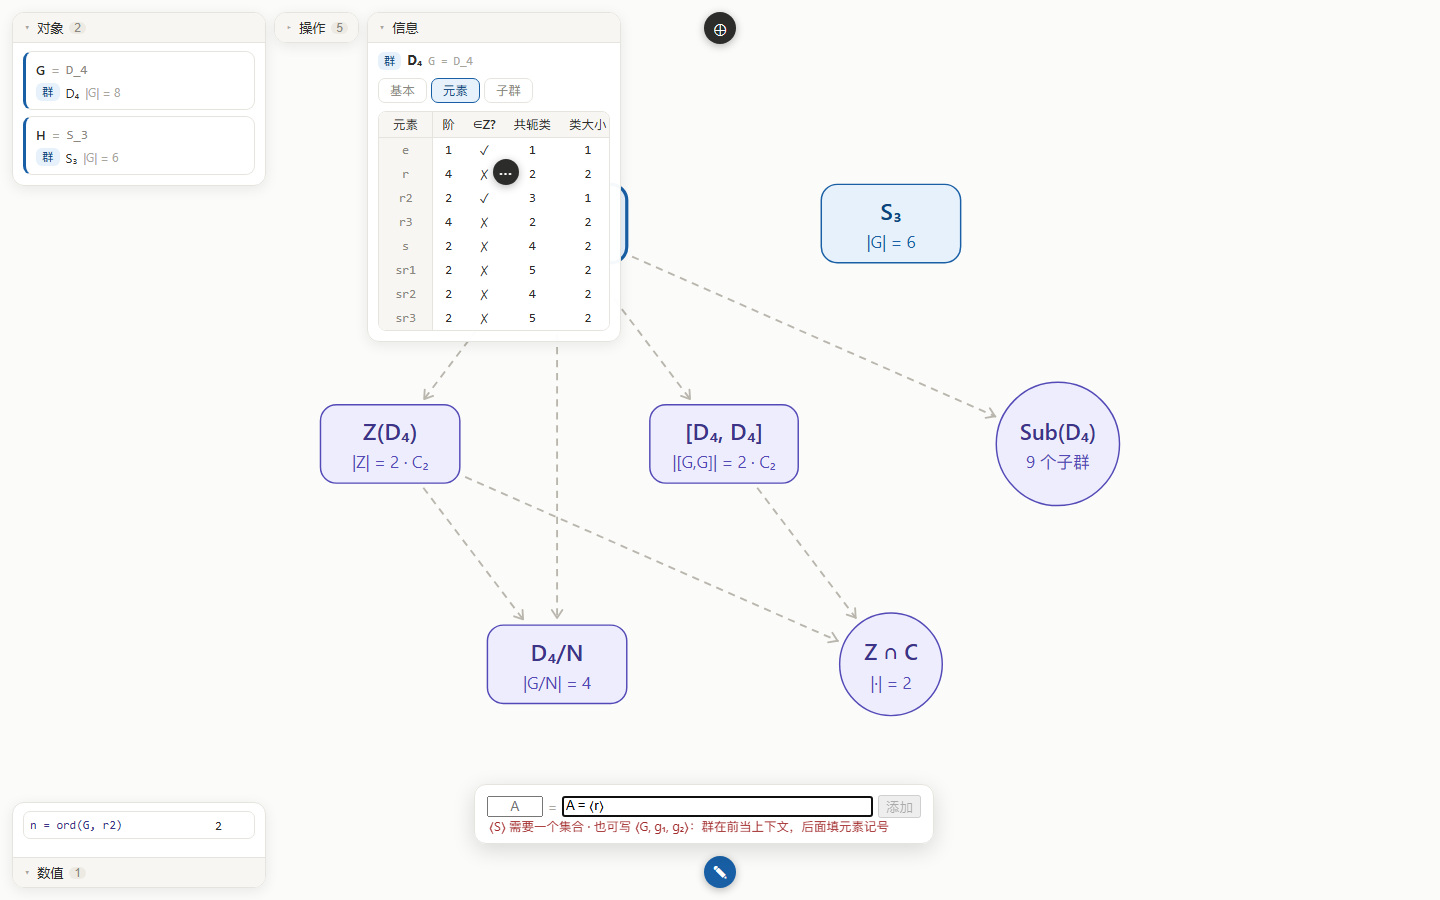
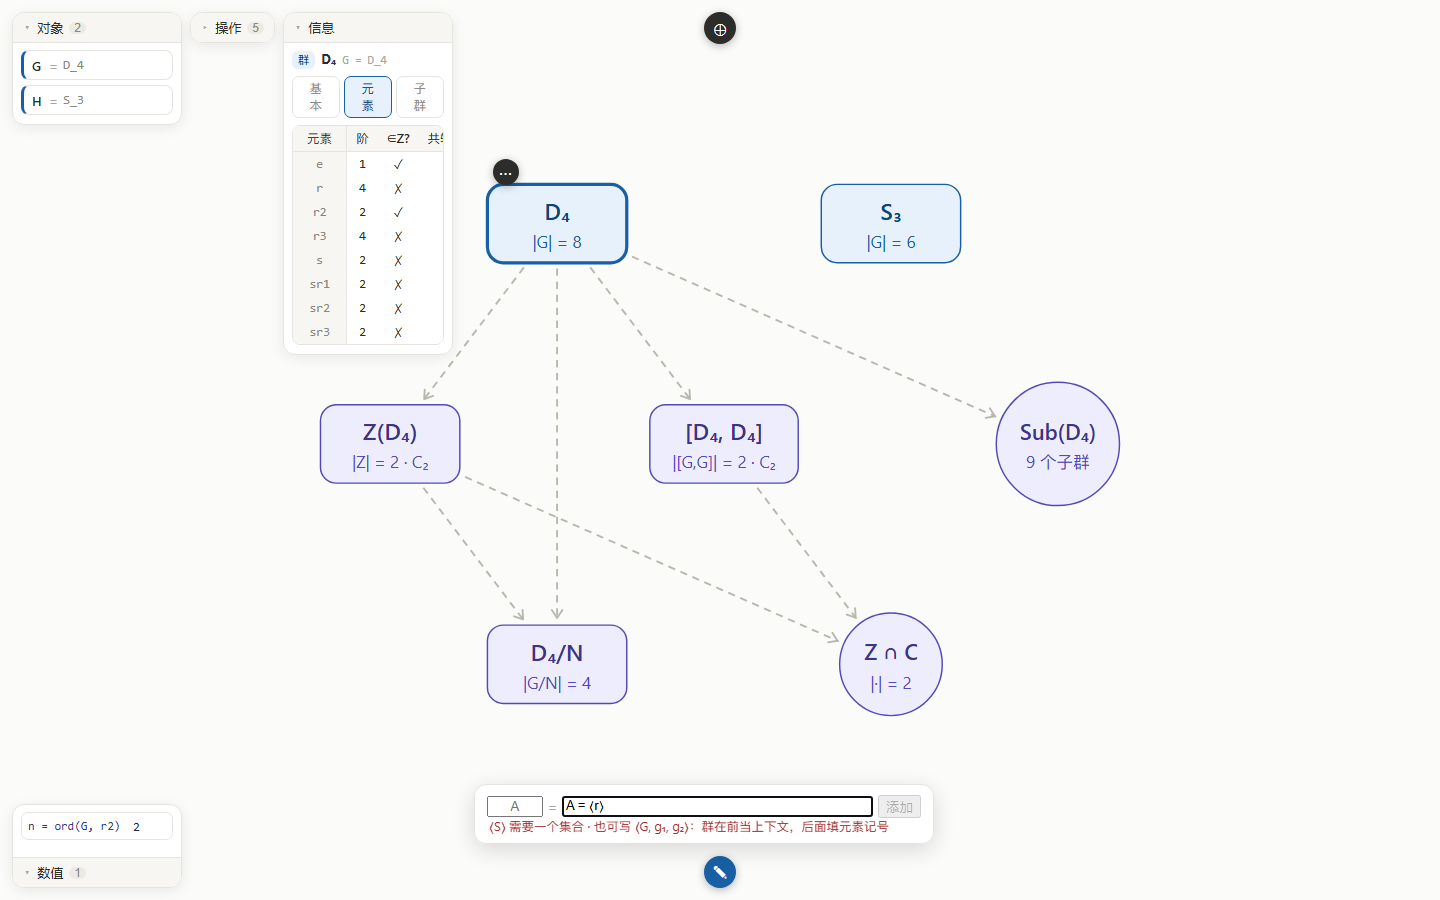
UI v3.1 二次收窄：对象行一行到底（A = D_4），详情全走信息面板
用户反馈"面板还是太宽"——对象栏一行 A = XXX 就够，其余信息去信息栏。

- ObjectRow 单行紧凑：去掉类型 chip / 标签 / 副行，只剩 名字 = 定义 + hover 删除；
  点对象行 = 选中该对象（画布高亮 + 对象球出现 + 信息面板自动打开）——
  群走基本/元素/子群三 tab，集合/作用/数值走信息面板的通用信息，通路现成
- 抽屉 252 → 168px（一行定义的宽度）：对象 / 操作 / 数值同宽；信息面板内容自适应
  （元素表格横滚、子群行换行）；错误行（BadRow）保留原样——错误提示无处可去
- InfoDock 的 info-def（名字 = 定义）与对象行呼应，选中后信息面板即完整档案

验证
- tsc --noEmit 零错误；U0 52 + U1 35 + U2 76 断言回归全绿
- playwright 走查 22/22（新增：对象行单行结构断言、点行选中后信息面板显示该对象）
- 修复走查环境问题：chromium 走系统代理导致 ERR_CONNECTION_REFUSED，
  launch 加 --no-proxy-server + env 清代理变量（环境 4 小时内变化即可复现）

文档：INTERACTION §5（168px / 点行选中）· ROADMAP U2.5 · README

Changed region(s): [[0.1875, 0.0311, 0.4375, 0.3733], [0.0, 0.0622, 0.0938, 0.1867], [0.0, 0.9022, 0.125, 0.9333]]

diff --git a/apps/web/src/ui/ObjectRow.tsx b/apps/web/src/ui/ObjectRow.tsx
@@ -1,36 +1,55 @@
-import { VALUE_TYPE_LABEL } from '../gal/value'
-import { TexOrText } from './Tex'
 import type { LineState } from '../gal/build'
 
-/** 一行对象（对象区 / 操作区共用）。 */
+/**
+ * 一行对象（对象区 / 操作区共用）——**单行紧凑**（UI v3.1 二次收窄）：
+ *
+ *     A = D_4                              ×
+ *
+ * 类型 / 标签 / 副行等信息**全部搬进「信息」面板**：点这一行 = 选中该对象
+ * （画布同步高亮、信息面板打开），信息在那边看。面板因此可以窄到一行定义的宽度。
+ */
 export function ObjectRow({
   state,
   onRemove,
+  onSelect,
 }: {
   state: LineState
   onRemove: (index: number) => void
+  /** 点行 = 选中对象（画布高亮 + 信息面板打开） */
+  onSelect?: (id: string) => void
 }) {
   const o = state.object!
   return (
-    <div className={`row row-${o.origin}`}>
-      <div className="row-top">
-        <span className="row-name">{o.id}</span>
-        <span className="row-eq">=</span>
-        <code className="row-def">{o.def}</code>
-        <button className="x" onClick={() => onRemove(state.index)} title="删除">
-          ×
-        </button>
-      </div>
-      <div className="row-sub">
-        <span className={`chip chip-${o.value.type}`}>{VALUE_TYPE_LABEL[o.value.type]}</span>
-        <TexOrText className="row-label" text={o.label} />
-        {o.sub && <span className="row-meta">{o.sub}</span>}
-      </div>
+    <div
+      className={`row row-${o.origin}${onSelect ? ' row-click' : ''}`}
+      onClick={
+        onSelect
+          ? (e) => {
+              e.stopPropagation()
+              onSelect(o.id)
+            }
+          : undefined
+      }
+      title={onSelect ? '选中，在信息面板查看详情' : undefined}
+    >
+      <span className="row-name">{o.id}</span>
+      <span className="row-eq">=</span>
+      <code className="row-def">{o.def}</code>
+      <button
+        className="x"
+        onClick={(e) => {
+          e.stopPropagation()
+          onRemove(state.index)
+        }}
+        title="删除"
+      >
+        ×
+      </button>
     </div>
   )
 }
 
-/** 问题行（求值失败的定义）。 */
+/** 问题行（求值失败的定义）。错误提示无处可去，就地显示。 */
 export function BadRow({
   state,
   onRemove,

diff --git a/apps/web/src/App.css b/apps/web/src/App.css
@@ -178,11 +178,11 @@ body {
 .dock-body {
   display: flex;
   flex-direction: column;
-  gap: 6px;
-  width: 252px;
+  gap: 5px;
+  width: 168px;
   max-height: min(62vh, 540px);
   overflow-y: auto;
-  padding: 8px 10px 10px;
+  padding: 7px 8px 9px;
 }
 
 .dock-subtitle {
@@ -207,14 +207,25 @@ body {
   font-size: 13px;
 }
 
-/* ── 对象行（对象区 / 操作区共用）────────────────────────── */
+/* ── 对象行（单行紧凑：A = def ×，v3.1 二次收窄）──────────── */
 
 .row {
   position: relative;
-  padding: 8px 10px;
+  display: flex;
+  align-items: center;
+  gap: 5px;
+  padding: 5px 8px;
   border: 1px solid var(--border);
-  border-radius: 9px;
+  border-radius: 8px;
   background: var(--surface);
+}
+
+.row-click {
+  cursor: pointer;
+}
+
+.row-click:hover {
+  border-color: var(--blue);
 }
 
 .row-input {
@@ -230,6 +241,7 @@ body {
 }
 
 .row-bad {
+  display: block;
   border-left: 3px solid var(--danger);
   background: var(--danger-fill);
 }
@@ -241,11 +253,14 @@ body {
 }
 
 .row-name {
+  flex: none;
+  min-width: 12px;
   font-weight: 500;
   color: var(--text);
 }
 
 .row-eq {
+  flex: none;
   color: var(--text-faint);
 }
 
@@ -255,27 +270,9 @@ body {
   overflow: hidden;
   color: var(--text-dim);
   font-family: var(--mono);
-  font-size: 13px;
+  font-size: 12.5px;
   text-overflow: ellipsis;
   white-space: nowrap;
-}
-
-.row-sub {
-  display: flex;
-  flex-wrap: wrap;
-  align-items: center;
-  gap: 6px;
-  margin-top: 5px;
-}
-
-.row-label {
-  font-size: 13px;
-  color: var(--text);
-}
-
-.row-meta {
-  font-size: 12px;
-  color: var(--text-faint);
 }
 
 .row-err {

diff --git a/apps/web/src/App.tsx b/apps/web/src/App.tsx
@@ -150,6 +150,14 @@ export default function App() {
     setOrbStage('closed')
   }, [])
 
+  /** 面板里点对象行 = 选中它：画布高亮 + 对象球出现 + 信息面板打开（信息都在那边看） */
+  const selectFromDock = useCallback((id: string) => {
+    setInter({ kind: 'selected', target: id })
+    setOrbStage('closed')
+    setOpenInfo(true)
+    setNotice(null)
+  }, [])
+
   /* ── 执行：把点选出来的操作编成一行定义，交给同一个求值器 ───────── */
 
   const runOp = useCallback(
@@ -382,12 +390,14 @@ export default function App() {
           onToggle={() => setOpenObjects((v) => !v)}
           lineStates={lineStates}
           onRemove={removeLine}
+          onSelect={selectFromDock}
         />
         <OpDock
           open={openOps}
           onToggle={() => setOpenOps((v) => !v)}
           lineStates={lineStates}
           onRemove={removeLine}
+          onSelect={selectFromDock}
         />
         <InfoDock
           open={openInfo}

diff --git a/apps/web/src/ui/OpDock.tsx b/apps/web/src/ui/OpDock.tsx
@@ -13,11 +13,14 @@ export function OpDock({
   onToggle,
   lineStates,
   onRemove,
+  onSelect,
 }: {
   open: boolean
   onToggle: () => void
   lineStates: LineState[]
   onRemove: (index: number) => void
+  /** 点行 = 选中对象，信息在「信息」面板看 */
+  onSelect: (id: string) => void
 }) {
   const rows = lineStates.filter(
     (s) => s.ok && s.object && s.object.value.type !== 'number' && s.object.origin === 'derived',
@@ -27,7 +30,7 @@ export function OpDock({
     <DockPanel title="操作" count={rows.length} open={open} onToggle={onToggle}>
       {rows.length === 0 && <div className="empty">运算产生的对象会落在这里</div>}
       {rows.map((s) => (
-        <ObjectRow key={s.index} state={s} onRemove={onRemove} />
+        <ObjectRow key={s.index} state={s} onRemove={onRemove} onSelect={onSelect} />
       ))}
     </DockPanel>
   )

diff --git a/apps/web/src/ui/ObjectDock.tsx b/apps/web/src/ui/ObjectDock.tsx
@@ -13,11 +13,14 @@ export function ObjectDock({
   onToggle,
   lineStates,
   onRemove,
+  onSelect,
 }: {
   open: boolean
   onToggle: () => void
   lineStates: LineState[]
   onRemove: (index: number) => void
+  /** 点行 = 选中对象，信息在「信息」面板看 */
+  onSelect: (id: string) => void
 }) {
   const okRows = lineStates.filter((s) => s.ok && s.object)
   const inputs = okRows.filter(
@@ -29,7 +32,7 @@ export function ObjectDock({
     <DockPanel title="对象" count={inputs.length} open={open} onToggle={onToggle}>
       {inputs.length === 0 && <div className="empty">点下方 ✎ 声明一个群，如 G = D_4</div>}
       {inputs.map((s) => (
-        <ObjectRow key={s.index} state={s} onRemove={onRemove} />
+        <ObjectRow key={s.index} state={s} onRemove={onRemove} onSelect={onSelect} />
       ))}
 
       {bad.length > 0 && (

diff --git a/.workbuddy/memory/2026-09-16.md b/.workbuddy/memory/2026-09-16.md
@@ -91,3 +91,5 @@
 - **UI v3 已提交并推送**（`578e3dd`，31 文件 +2090/−1522，远端 HEAD 已核对一致）。回归 U0 52 + U1 35 + U2 76 全绿后才提交；katex 依赖在 HEAD 里早已带上（此前装依赖时入库），本次无需动 package.json。
 - **UI v3.1（用户五条反馈，15:41–15:55 落地）**：①输入框从「对象」抽屉提出，搬到**正下方中央 `✎` 输入球**（`ui/ComposerOrb.tsx`，卡片向上弹、焦点落表达式框、提交后卡片常开便于连续输入、Esc 收起）；②**撤销 `insets` 让位**——抽屉收展时画布节点纹丝不动（用户明确"不要移动画布"），悬浮球仍避让抽屉右边界（App 只量 barriers 喂给 MultiOrb/ComposerOrb，不再喂 CanvasView）；③抽屉 302→252px、面板字号整体 +1px（CSS 五档阶梯替换 12.5→13/12→13/11.5→12.5/11→12/10.5→11.5，**必须从大到小替换**否则连环覆盖）；④元素表格转正为**行=元素、列=属性**（v3 首版按用户原话做反了，看到实物后要求翻转——"用户嘴上说的方向"和"看到实物要的方向"可能不一致，做之前最好画个 ASCII 草图确认）；⑤走查 **18/18**（含开合面板节点坐标不变的强断言）+ 三套断言回归全绿，提交推送。
 - **走查脚本踩坑**：画布节点 label 是**群符号**（D₄）不是对象名（G），dispatch 找节点要用 `textContent === 'D₄'`；悬浮球可能被浮层抽屉盖住，`page.click('.orb')` 会点到抽屉上——**一律用 dispatchEvent** 绕过遮挡判定；信息面板「基本」tab 没有表格，要切「元素」tab 才有 `.etable`。
+- **UI v3.1 二次收窄（19:40–19:55，用户"面板还是太宽"）**：对象行/操作行**只剩一行 `A = D_4`**（`ObjectRow` 去掉 chip/label/meta 副行），**点对象行 = 选中该对象**（画布高亮 + 信息面板打开——`selectFromDock`；群走三 tab、其余走 InfoDock 的 OtherTab，通路本来就是现成的）；抽屉 252→**168px**。走查 **22/22**（新断言：单行结构 / 点行选中后信息面板显示 D₄）+ 三套断言回归全绿。
+- **playwright 走 chromium 报 ERR_CONNECTION_REFUSED 的真因**：系统代理环境变了（4 小时后复跑同脚本就炸），`direct://` 不够、`--no-proxy-server` + `env -u` 清代理变量双保险才通。以后走查脚本 launch 一律带 `args: ['--no-proxy-server']`。

diff --git a/README.md b/README.md
@@ -126,7 +126,8 @@ docs/                设计 / 架构 / 交互 / 证明 / 规划文档
   节点左上角**深色悬浮球**（4 按钮：基本 / 元素 / 子群 / 操作）；**多对象球**挂在显示区正上方；
   格子**可拖进数值区**；**KaTeX 接上**（面板里的 TeX 真渲染）。
 - **UI v3.1 已完成**：**输入框搬到画面正下方中央的 `✎` 输入球**（点开即用，卡片常开便于连续输入）；
-  **抽屉收展不再移动画布**（节点纹丝不动，悬浮球自己避开抽屉）；抽屉收窄（302 → 252px）+ 面板字号整体 +1px；
+  **抽屉收展不再移动画布**（节点纹丝不动，悬浮球自己避开抽屉）；抽屉收窄两轮（302 → 252 → **168px**，
+  对象行/操作行只剩一行 `A = D_4`，**点行即选中、详情都在「信息」面板看**）+ 面板字号整体 +1px；
   元素表格**转正为"行 = 元素、列 = 属性"**。
 - 验证：`tsc` 零错误 · U0 **52/52** + U1 **35/35** + U2 **76/76** 断言 · 真浏览器控制台零错误
   （v3.1 走查 18/18：画布不随面板移动 / 输入球全链路 / 表格转置 / 宽度与字号）。

diff --git a/docs/INTERACTION.md b/docs/INTERACTION.md
@@ -268,6 +268,11 @@ pending / fill ──Esc / 点空白──→ idle
 每个抽屉**可弹出可收起**（收起只剩一个标题胶囊）。默认只展开「对象」+「数值」——
 四个都摊开会把画布左上角整片盖住，连顶部那颗多对象球都压上去。
 
+**抽屉宽度 = 一行定义的宽度（168px，v3.1 二次收窄）**：对象行 / 操作行**只有一行 `A = D_4`**——
+类型、标签、副行等信息**全部搬进「信息」面板**：**点对象行 = 选中该对象**
+（画布同步高亮、信息面板打开，群走三 tab、其余走通用信息）。
+对象面板 / 操作面板因此可以窄到极限；数值面板同宽；信息面板内容自适应（表格横滚 / 行换行）。
+
 **画布不给抽屉让位（v3.1 定死）**：抽屉收展时画布节点**纹丝不动**（不再有 `insets` 重排）。
 代价是抽屉可能与节点偶发重叠——用户收起即可，比"每开一个面板整幅画布缩一圈"划算。
 顶部多对象球与底部输入球会**自己避开**左上/左下抽屉的右边界（只挪球，不动画布）。

diff --git a/docs/ROADMAP.md b/docs/ROADMAP.md
@@ -137,6 +137,9 @@
   3. 抽屉收窄 302 → 252px；面板字号整体 +1px（5 档阶梯替换）；
   4. 元素表格转正为**行 = 元素、列 = 属性**；
   5. 验证：走查 **18/18**（含"开合面板节点坐标不变"的强断言）+ 三套断言回归全绿。
+- **v3.1 二次收窄**（用户"面板还是太宽"）：对象行 / 操作行**只剩一行 `A = D_4`**，
+  类型 / 标签 / 副行全部搬进「信息」面板——**点对象行 = 选中该对象**（画布高亮 + 信息面板打开）；
+  抽屉 252 → **168px**（一行定义的宽度）。走查 **22/22**。
 
 ### 阶段 1 — Proof Spec 引擎（M1）
 
